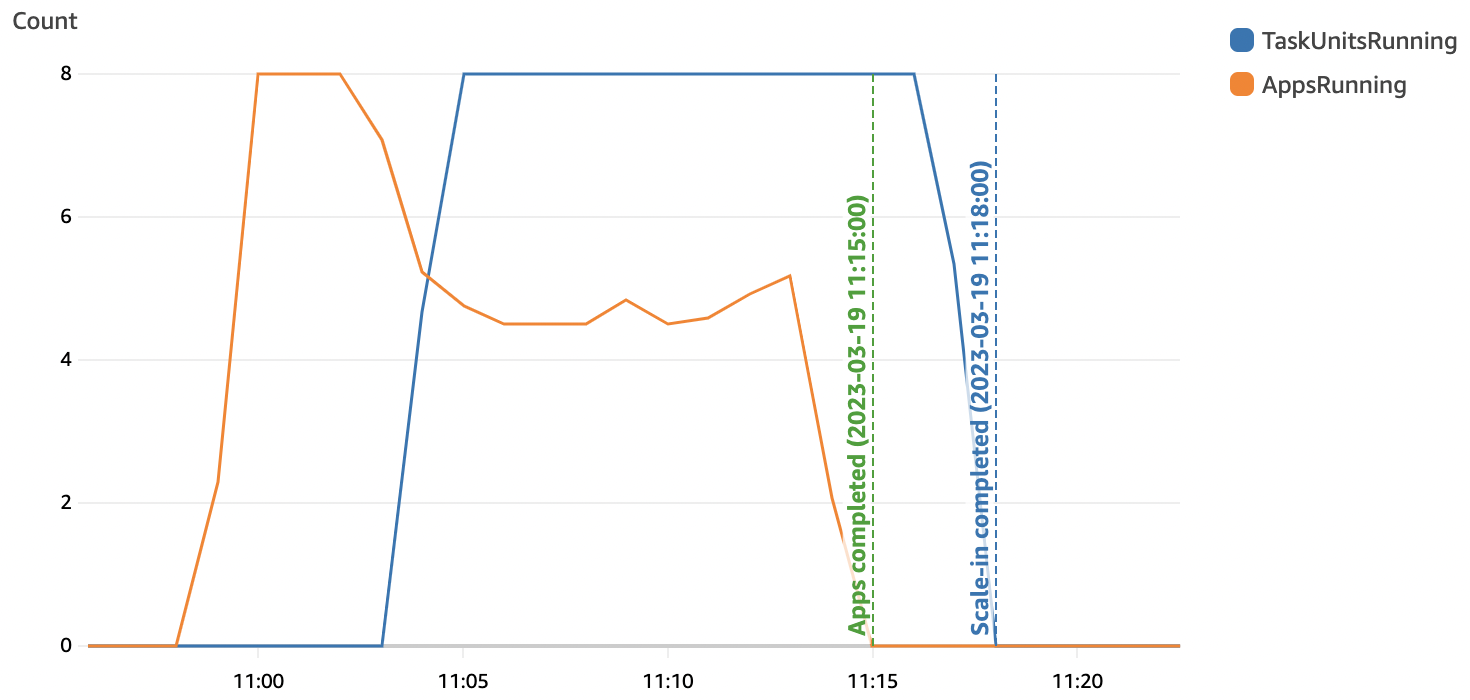
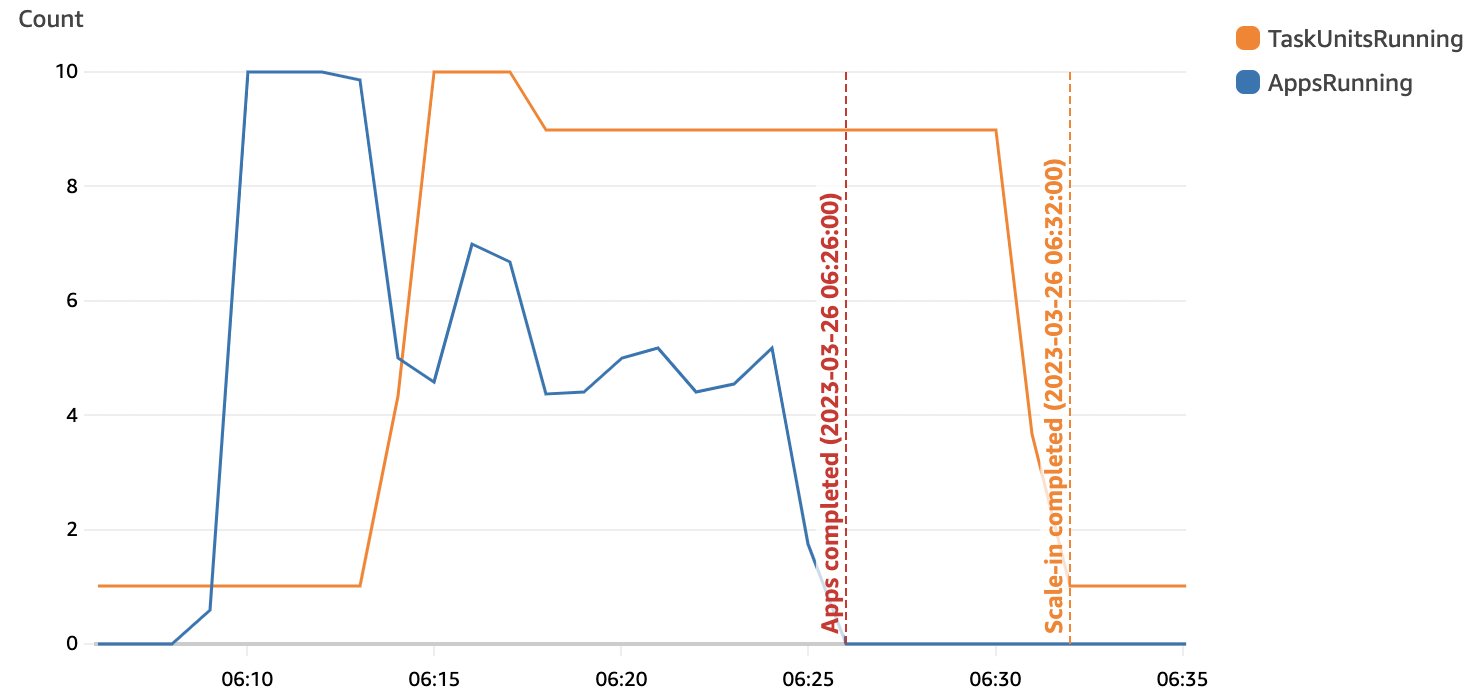
postscript

diff --git a/en/article/445/index.html b/en/article/445/index.html
@@ -486,7 +486,7 @@ Therefore, core nodes need to be decommissioned and then terminated to prevent d
 </span></span><span style="display:flex;"><span>Last Block Report: Sun Mar <span style="color:#bd93f9">19</span> 05:27:53 UTC <span style="color:#bd93f9">2023</span>
 </span></span><span style="display:flex;"><span>Num of Blocks: <span style="color:#bd93f9">106</span>
 </span></span><span style="display:flex;"><span>...
-</span></span></code></pre></div><p>If Spark applications persist data to S3, HDFS&rsquo;s capacity is not required much.</p>
+</span></span></code></pre></div><p>However, if the data is persisted in S3, HDFS capacity is not required much.</p>
 <div class="highlight"><pre tabindex="0" style="color:#f8f8f2;background-color:#282a36;-moz-tab-size:2;-o-tab-size:2;tab-size:2;"><code class="language-sh" data-lang="sh"><span style="display:flex;"><span>$ sudo -u hdfs hdfs dfs -du -h /
 </span></span><span style="display:flex;"><span><span style="color:#bd93f9">0</span>        <span style="color:#bd93f9">0</span>        /user
 </span></span><span style="display:flex;"><span>12.6 M   12.6 M   /var
@@ -529,7 +529,7 @@ There is a whole code on <a href="https://github.com/sambaiz/emr-core-task-node-
 </span></span><span style="display:flex;"><span>  }, 
 </span></span><span style="display:flex;"><span>  ...
 </span></span><span style="display:flex;"><span>}
-</span></span></code></pre></div><p>It takes 14 minutes to scale in after all steps are completed.</p>
+</span></span></code></pre></div><p>It takes about 14 minutes to scale in after all steps are completed.</p>
 
 
 
@@ -540,64 +540,58 @@ There is a whole code on <a href="https://github.com/sambaiz/emr-core-task-node-
 
 
 <h2 id="when-task-nodes-are-scaled">When task nodes are scaled</h2>
-<p>Next, add Task nodes and prevent Core nodes from scaling out.</p>
-<div class="highlight"><pre tabindex="0" style="color:#f8f8f2;background-color:#282a36;-moz-tab-size:2;-o-tab-size:2;tab-size:2;display:grid;"><code class="language-ts" data-lang="ts"><span style="display:flex;"><span>{
+<p>Next, add Task nodes and prevent Core nodes from scaling out.
+Unlike Core nodes, there is almost no problem even if they suddenly shut down, so you can reduce the cost with Spot Instances, but this time, I run with on-demand instances to make reproduction easy.</p>
+<div class="highlight"><pre tabindex="0" style="color:#f8f8f2;background-color:#282a36;-moz-tab-size:2;-o-tab-size:2;tab-size:2;"><code class="language-ts" data-lang="ts"><span style="display:flex;"><span>{
 </span></span><span style="display:flex;"><span>  instances<span style="color:#ff79c6">:</span> {
 </span></span><span style="display:flex;"><span>    masterInstanceFleet<span style="color:#ff79c6">:</span> {
 </span></span><span style="display:flex;"><span>      targetOnDemandCapacity: <span style="color:#8be9fd">1</span>,
-</span></span><span style="display:flex;"><span>      instanceTypeConfigs<span style="color:#ff79c6">:</span> [
+</span></span><span style="display:flex;"><span>        instanceTypeConfigs<span style="color:#ff79c6">:</span> [
 </span></span><span style="display:flex;"><span>        {
 </span></span><span style="display:flex;"><span>          instanceType<span style="color:#ff79c6">:</span> <span style="color:#f1fa8c">&#39;m6g.xlarge&#39;</span>,
 </span></span><span style="display:flex;"><span>        },
 </span></span><span style="display:flex;"><span>      ],
 </span></span><span style="display:flex;"><span>    },
 </span></span><span style="display:flex;"><span>    coreInstanceFleet<span style="color:#ff79c6">:</span> {
-</span></span><span style="display:flex;"><span>      targetOnDemandCapacity: <span style="color:#8be9fd">2</span>,
-</span></span><span style="display:flex;"><span>      instanceTypeConfigs<span style="color:#ff79c6">:</span> [
+</span></span><span style="display:flex;"><span>      targetOnDemandCapacity: <span style="color:#8be9fd">1</span>,
+</span></span><span style="display:flex;"><span>        instanceTypeConfigs<span style="color:#ff79c6">:</span> [
 </span></span><span style="display:flex;"><span>        {
 </span></span><span style="display:flex;"><span>          instanceType<span style="color:#ff79c6">:</span> <span style="color:#f1fa8c">&#39;m6g.xlarge&#39;</span>,
 </span></span><span style="display:flex;"><span>        },
 </span></span><span style="display:flex;"><span>      ],
 </span></span><span style="display:flex;"><span>    },
-</span></span><span style="display:flex; background-color:#3d3f4a"><span>    taskInstanceFleets<span style="color:#ff79c6">:</span> [{
-</span></span><span style="display:flex; background-color:#3d3f4a"><span>      name<span style="color:#ff79c6">:</span> <span style="color:#f1fa8c">&#39;Task nodes&#39;</span>,
-</span></span><span style="display:flex; background-color:#3d3f4a"><span>      targetSpotCapacity: <span style="color:#8be9fd">1</span>,
-</span></span><span style="display:flex; background-color:#3d3f4a"><span>      instanceTypeConfigs<span style="color:#ff79c6">:</span> [
-</span></span><span style="display:flex; background-color:#3d3f4a"><span>        {
-</span></span><span style="display:flex; background-color:#3d3f4a"><span>          instanceType<span style="color:#ff79c6">:</span> <span style="color:#f1fa8c">&#39;m6g.xlarge&#39;</span>,
-</span></span><span style="display:flex; background-color:#3d3f4a"><span>          bidPriceAsPercentageOfOnDemandPrice: <span style="color:#8be9fd">100</span>,
-</span></span><span style="display:flex; background-color:#3d3f4a"><span>        },
-</span></span><span style="display:flex; background-color:#3d3f4a"><span>      ],
-</span></span><span style="display:flex; background-color:#3d3f4a"><span>      launchSpecifications<span style="color:#ff79c6">:</span> {
-</span></span><span style="display:flex; background-color:#3d3f4a"><span>        spotSpecification<span style="color:#ff79c6">:</span> {
-</span></span><span style="display:flex; background-color:#3d3f4a"><span>          timeoutAction<span style="color:#ff79c6">:</span> <span style="color:#f1fa8c">&#39;SWITCH_TO_ON_DEMAND&#39;</span>,
-</span></span><span style="display:flex; background-color:#3d3f4a"><span>          timeoutDurationMinutes: <span style="color:#8be9fd">5</span>,
-</span></span><span style="display:flex; background-color:#3d3f4a"><span>        },
-</span></span><span style="display:flex; background-color:#3d3f4a"><span>      },
-</span></span><span style="display:flex; background-color:#3d3f4a"><span>    }],
+</span></span><span style="display:flex;"><span>    taskInstanceFleets<span style="color:#ff79c6">:</span> [{
+</span></span><span style="display:flex;"><span>      name<span style="color:#ff79c6">:</span> <span style="color:#f1fa8c">&#39;Task nodes&#39;</span>,
+</span></span><span style="display:flex;"><span>      targetSpotCapacity: <span style="color:#8be9fd">1</span>,
+</span></span><span style="display:flex;"><span>      instanceTypeConfigs<span style="color:#ff79c6">:</span> [
+</span></span><span style="display:flex;"><span>        {
+</span></span><span style="display:flex;"><span>          instanceType<span style="color:#ff79c6">:</span> <span style="color:#f1fa8c">&#39;m6g.xlarge&#39;</span>,
+</span></span><span style="display:flex;"><span>        },
+</span></span><span style="display:flex;"><span>      ],
+</span></span><span style="display:flex;"><span>    }],
 </span></span><span style="display:flex;"><span>  },
 </span></span><span style="display:flex;"><span>  managedScalingPolicy<span style="color:#ff79c6">:</span> {
 </span></span><span style="display:flex;"><span>    computeLimits<span style="color:#ff79c6">:</span> {
 </span></span><span style="display:flex;"><span>      maximumCapacityUnits: <span style="color:#8be9fd">10</span>,
-</span></span><span style="display:flex; background-color:#3d3f4a"><span>      maximumCoreCapacityUnits: <span style="color:#8be9fd">2</span>,
-</span></span><span style="display:flex;"><span>      minimumCapacityUnits: <span style="color:#8be9fd">2</span>,
-</span></span><span style="display:flex;"><span>      unitType<span style="color:#ff79c6">:</span> <span style="color:#f1fa8c">&#39;InstanceFleetUnits&#39;</span>,
+</span></span><span style="display:flex;"><span>        maximumCoreCapacityUnits: <span style="color:#8be9fd">1</span>,
+</span></span><span style="display:flex;"><span>        minimumCapacityUnits: <span style="color:#8be9fd">2</span>,
+</span></span><span style="display:flex;"><span>        unitType<span style="color:#ff79c6">:</span> <span style="color:#f1fa8c">&#39;InstanceFleetUnits&#39;</span>,
 </span></span><span style="display:flex;"><span>    },
-</span></span><span style="display:flex;"><span>  }, 
-</span></span><span style="display:flex;"><span>  ...
+</span></span><span style="display:flex;"><span>  },
+</span></span><span style="display:flex;"><span>...
 </span></span><span style="display:flex;"><span>}
-</span></span></code></pre></div><p>It takes 3 minutes to scale in.</p>
+</span></span></code></pre></div><p>It takes about 6 minutes to scale in.</p>
 
 
 
 
 <div class="img_container"><a href="/en/article/445/images/task.png">
-    <img style="max-width: 100%; width: auto; height: auto;" src="/en/article/445/images/task_hua7f1d8dbbe33f0376a0d71b47bd551b4_329221_600x370_fit_lanczos_3.png" width="600" height="286" alt="Changes in the number of instances when Task nodes are scaled">
+    <img style="max-width: 100%; width: auto; height: auto;" src="/en/article/445/images/task_hu7fbfe5303308df57380e7a1804443f1e_342262_600x370_fit_lanczos_3.png" width="600" height="283" alt="Changes in the number of instances when Task nodes are scaled">
 </a></div>
 
 
-<p>From EMR 6.x, YARN&rsquo;s node label feature is <a href="https://aws.amazon.com/premiumsupport/knowledge-center/emr-configure-node-labeling-yarn/?nc1=h_ls">disabled by default</a>, so ApplicationMaster is executed on even Task nodes.
-But, if you want to avoid the failure of jobs due to spot instances suddenly shutdowned, you can enable node label to run it on on-demand Core nodes.</p>
+<p>From EMR 6.x, YARN&rsquo;s node label feature is <a href="https://aws.amazon.com/premiumsupport/knowledge-center/emr-configure-node-labeling-yarn/?nc1=h_ls">disabled by default</a>, so ApplicationMaster is executed on even Task nodes and core nodes might not need many computing resources.
+But, the <a href="https://docs.aws.amazon.com/emr/latest/ManagementGuide/emr-plan-storage.html#emr-plan-storage-ebs-storage-default">default storage size</a> depends on the instance type, so if you set a small instance type, you should also set the EBS size explicitly or tasks will fail instantly with no space left on device.</p>
 
     </div>
   </article>

diff --git a/en/article/409/index.html b/en/article/409/index.html
@@ -556,7 +556,7 @@ While client mode is handy as <a href="https://aws.amazon.com/premiumsupport/kno
 </span></span><span style="display:flex;"><span>    <span style="color:#f1fa8c">&#34;ClusterArn&#34;</span>: <span style="color:#f1fa8c">&#34;arn:aws:elasticmapreduce:ap-northeast-1:******:cluster/j-DND71AFKD661&#34;</span>
 </span></span><span style="display:flex;"><span><span style="color:#ff79c6">}</span>
 </span></span></code></pre></div><h2 id="use-spot-instances">Use spot instances</h2>
-<p>With <a href="https://docs.aws.amazon.com/emr/latest/ManagementGuide/emr-instance-fleet.html">instance fleets</a> settings instead of &ndash;instance-type and &ndash;instance-count, a cluster, which consists of low-cost spot instances and multiple types of instances, can be launched. Spot instances can suddenly shut down depending on the demand, but even if shuffle blocks are lost due to it, there is a feature to <a href="https://docs.aws.amazon.com/emr/latest/ReleaseGuide/emr-spark-configure.html#spark-decommissioning">recover</a> with recalculation, so there is no problem.</p>
+<p>With <a href="https://docs.aws.amazon.com/emr/latest/ManagementGuide/emr-instance-fleet.html">instance fleets</a> settings instead of &ndash;instance-type and &ndash;instance-count, a cluster, which consists of low-cost spot instances and multiple types of instances, can be launched. Spot instances can suddenly shut down depending on the demand, but even if shuffle blocks are lost due to it, there is a feature to <a href="https://docs.aws.amazon.com/emr/latest/ReleaseGuide/emr-spark-configure.html#spark-decommissioning">recover</a> with recalculation.</p>
 
 
 
@@ -579,12 +579,14 @@ While client mode is handy as <a href="https://aws.amazon.com/premiumsupport/kno
 </ul>
 </li>
 </ul>
-<p>&ndash;managed-scaling-policy&rsquo;s UnitType is InstanceFleetUnits.</p>
+<p>&ndash;managed-scaling-policy&rsquo;s UnitType is InstanceFleetUnits. MaximumOnDemandCapacityUnits is needed to launch spot instances on scale-out.</p>
 <div class="highlight"><pre tabindex="0" style="color:#f8f8f2;background-color:#282a36;-moz-tab-size:2;-o-tab-size:2;tab-size:2;"><code class="language-sh" data-lang="sh"><span style="display:flex;"><span>--instance-fleets <span style="color:#f1fa8c">\
-</span></span></span><span style="display:flex;"><span><span style="color:#f1fa8c"></span>    <span style="color:#8be9fd;font-style:italic">InstanceFleetType</span><span style="color:#ff79c6">=</span>MASTER,TargetOnDemandCapacity<span style="color:#ff79c6">=</span>1,InstanceTypeConfigs<span style="color:#ff79c6">=[</span><span style="color:#f1fa8c">&#39;{InstanceType=m6g.xlarge}&#39;</span><span style="color:#ff79c6">]</span> <span style="color:#f1fa8c">\
-</span></span></span><span style="display:flex;"><span><span style="color:#f1fa8c"></span>    <span style="color:#8be9fd;font-style:italic">InstanceFleetType</span><span style="color:#ff79c6">=</span>CORE,TargetOnDemandCapacity<span style="color:#ff79c6">=</span>1,TargetSpotCapacity<span style="color:#ff79c6">=</span>3,InstanceTypeConfigs<span style="color:#ff79c6">=[</span><span style="color:#f1fa8c">&#39;{InstanceType=m6g.xlarge}&#39;</span>,<span style="color:#f1fa8c">&#39;{InstanceType=m6g.2xlarge,WeightedCapacity=2}&#39;</span><span style="color:#ff79c6">]</span>,LaunchSpecifications<span style="color:#ff79c6">={</span><span style="color:#8be9fd;font-style:italic">SpotSpecification</span><span style="color:#ff79c6">=</span><span style="color:#f1fa8c">&#39;{TimeoutDurationMinutes=5,TimeoutAction=SWITCH_TO_ON_DEMAND}&#39;</span><span style="color:#ff79c6">}</span> <span style="color:#f1fa8c">\
-</span></span></span><span style="display:flex;"><span><span style="color:#f1fa8c"></span>--managed-scaling-policy <span style="color:#8be9fd;font-style:italic">ComputeLimits</span><span style="color:#ff79c6">=</span><span style="color:#f1fa8c">&#39;{MinimumCapacityUnits=3,MaximumCapacityUnits=5,UnitType=InstanceFleetUnits}&#39;</span><span style="color:#f1fa8c">\
-</span></span></span></code></pre></div><h2 id="install-the-ssm-agent">Install the ssm-agent</h2>
+</span></span></span><span style="display:flex;"><span><span style="color:#f1fa8c"></span>  <span style="color:#8be9fd;font-style:italic">InstanceFleetType</span><span style="color:#ff79c6">=</span>MASTER,TargetOnDemandCapacity<span style="color:#ff79c6">=</span>1,InstanceTypeConfigs<span style="color:#ff79c6">=[</span><span style="color:#f1fa8c">&#39;{InstanceType=m6g.xlarge}&#39;</span><span style="color:#ff79c6">]</span> <span style="color:#f1fa8c">\
+</span></span></span><span style="display:flex;"><span><span style="color:#f1fa8c"></span>  <span style="color:#8be9fd;font-style:italic">InstanceFleetType</span><span style="color:#ff79c6">=</span>CORE,TargetOnDemandCapacity<span style="color:#ff79c6">=</span>2,InstanceTypeConfigs<span style="color:#ff79c6">=[</span><span style="color:#f1fa8c">&#39;{InstanceType=m6g.xlarge}&#39;</span><span style="color:#ff79c6">]</span> <span style="color:#f1fa8c">\
+</span></span></span><span style="display:flex;"><span><span style="color:#f1fa8c"></span>  <span style="color:#8be9fd;font-style:italic">InstanceFleetType</span><span style="color:#ff79c6">=</span>TASK,TargetSpotCapacity<span style="color:#ff79c6">=</span>1,InstanceTypeConfigs<span style="color:#ff79c6">=[</span><span style="color:#f1fa8c">&#39;{InstanceType=m6g.xlarge}&#39;</span>,<span style="color:#f1fa8c">&#39;{InstanceType=m6g.2xlarge,WeightedCapacity=2}&#39;</span><span style="color:#ff79c6">]</span>,LaunchSpecifications<span style="color:#ff79c6">={</span><span style="color:#8be9fd;font-style:italic">SpotSpecification</span><span style="color:#ff79c6">=</span><span style="color:#f1fa8c">&#39;{TimeoutDurationMinutes=5,TimeoutAction=SWITCH_TO_ON_DEMAND}&#39;</span><span style="color:#ff79c6">}</span> <span style="color:#f1fa8c">\
+</span></span></span><span style="display:flex;"><span><span style="color:#f1fa8c"></span>--managed-scaling-policy <span style="color:#8be9fd;font-style:italic">ComputeLimits</span><span style="color:#ff79c6">=</span><span style="color:#f1fa8c">&#39;{MinimumCapacityUnits=3,MaximumCapacityUnits=5,MaximumCoreCapacityUnits=2,MaximumOnDemandCapacityUnits=2,UnitType=InstanceFleetUnits}&#39;</span><span style="color:#f1fa8c">\
+</span></span></span></code></pre></div><p><a href="https://www.sambaiz.net/en/article/445/">Make EMR clusters&rsquo; scale-in faster with Task nodes - sambaiz-net</a></p>
+<h2 id="install-the-ssm-agent">Install the ssm-agent</h2>
 <p><a href="https://aws.amazon.com/jp/blogs/big-data/securing-access-to-emr-clusters-using-aws-systems-manager/">Install ssm-agent</a> at instance startup with &ndash;bootstrap-actions allows to execute commands and perform port forwarding to access <a href="https://docs.aws.amazon.com/emr/latest/ReleaseGuide/emr-ganglia.html">Ganglia</a> and debug remotely without registering a Key Pair.</p>
 <p><a href="https://www.sambaiz.net/en/article/410/">Deploy a container to ECS on Fargate, execute commands by ECS Exec, and perform port forwarding by Session Manager - sambaiz-net</a></p>
 <p><a href="https://www.sambaiz.net/en/article/420/">Develop Spark Applications in Scala and perform remote debugging on EMR - sambaiz-net</a></p>
